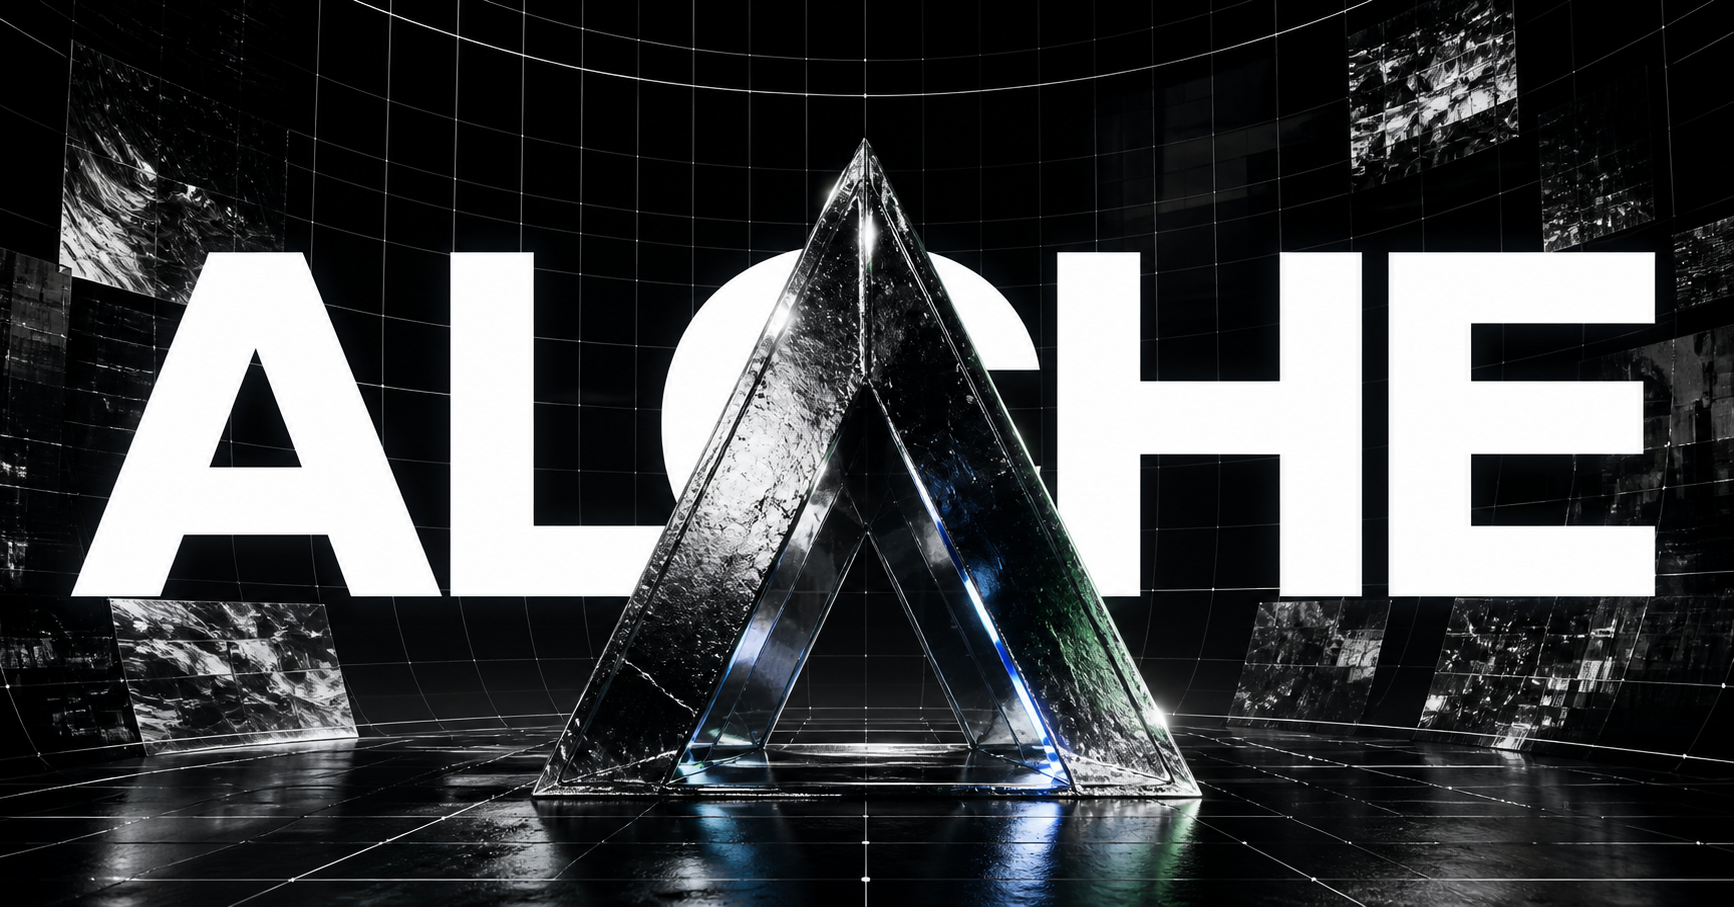
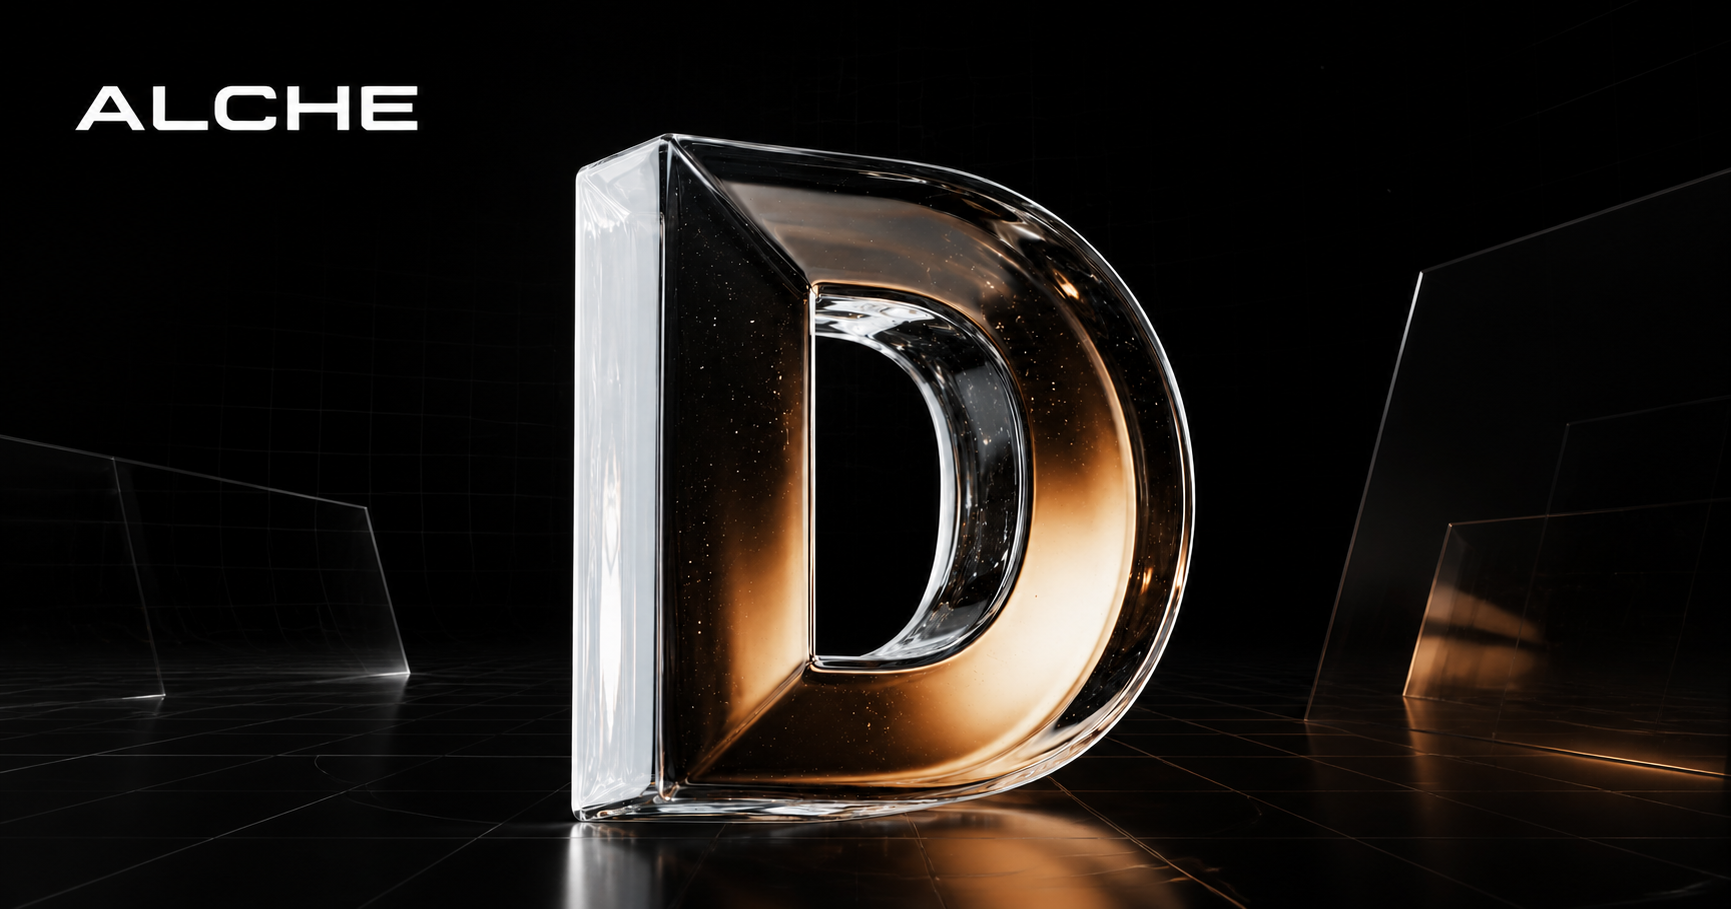
Replace hero with procedural glass D

diff --git a/app/page.tsx b/app/page.tsx
@@ -55,7 +55,6 @@ export default function Home() {
 
     async function mountScene() {
       const THREE = await import("three");
-      const { GLTFLoader } = await import("three/examples/jsm/loaders/GLTFLoader.js");
       const host = canvasHostRef.current;
       if (!host || disposed) return;
 
@@ -65,7 +64,7 @@ export default function Home() {
       renderer.outputColorSpace = THREE.SRGBColorSpace;
       renderer.toneMapping = THREE.ACESFilmicToneMapping;
       renderer.toneMappingExposure = 1.15;
-      renderer.domElement.setAttribute("aria-label", "Interactive Alche emblem");
+      renderer.domElement.setAttribute("aria-label", "Interactive glass D emblem");
       host.appendChild(renderer.domElement);
 
       const scene = new THREE.Scene();
@@ -78,93 +77,125 @@ export default function Home() {
       environment.colorSpace = THREE.SRGBColorSpace;
       scene.environment = environment;
 
-      const patternCanvas = document.createElement("canvas");
-      patternCanvas.width = 512;
-      patternCanvas.height = 512;
-      const patternContext = patternCanvas.getContext("2d");
-      let textureSeed = 913;
-      const textureRandom = () => {
-        textureSeed = (textureSeed * 16807) % 2147483647;
-        return (textureSeed - 1) / 2147483646;
-      };
-      if (patternContext) {
-        patternContext.fillStyle = "#060708";
-        patternContext.fillRect(0, 0, 512, 512);
-        for (let index = 0; index < 62; index += 1) {
-          const x = textureRandom() * 590 - 40;
-          const y = textureRandom() * 590 - 40;
-          const width = 18 + textureRandom() * 135;
-          const height = 10 + textureRandom() * 62;
-          patternContext.save();
-          patternContext.translate(x, y);
-          patternContext.rotate((-0.55 + textureRandom() * 1.1));
-          patternContext.globalAlpha = 0.12 + textureRandom() * 0.72;
-          patternContext.fillStyle = textureRandom() > 0.47 ? "#f7f7f2" : "#15181a";
-          patternContext.fillRect(-width / 2, -height / 2, width, height);
-          patternContext.restore();
-        }
-        patternContext.globalCompositeOperation = "screen";
-        for (let grain = 0; grain < 210; grain += 1) {
-          patternContext.globalAlpha = 0.035 + textureRandom() * 0.22;
-          patternContext.fillStyle = textureRandom() > 0.2 ? "#ffffff" : "#446c92";
-          patternContext.fillRect(textureRandom() * 512, textureRandom() * 512, 3 + textureRandom() * 48, 1 + textureRandom() * 9);
-        }
-        patternContext.globalCompositeOperation = "screen";
-        for (let line = 0; line < 18; line += 1) {
-          patternContext.strokeStyle = `rgba(${line % 3 === 0 ? "120,170,255" : "255,255,255"},${0.05 + textureRandom() * 0.19})`;
-          patternContext.lineWidth = 1 + textureRandom() * 4;
-          patternContext.beginPath();
-          patternContext.moveTo(-30, textureRandom() * 512);
-          patternContext.bezierCurveTo(140, textureRandom() * 512, 330, textureRandom() * 512, 550, textureRandom() * 512);
-          patternContext.stroke();
-        }
-      }
-      const patternTexture = new THREE.CanvasTexture(patternCanvas);
-      patternTexture.colorSpace = THREE.SRGBColorSpace;
-      patternTexture.wrapS = THREE.RepeatWrapping;
-      patternTexture.wrapT = THREE.MirroredRepeatWrapping;
-
       const logoRoot = new THREE.Group();
+      logoRoot.scale.setScalar(1.22);
+      logoRoot.rotation.x = -0.055;
       scene.add(logoRoot);
 
-      const loader = new GLTFLoader();
-      loader.load("/assets/scene.glb", (gltf) => {
-        if (disposed) return;
-        const logo = gltf.scene.getObjectByName("Alche_A") as THREE.Mesh | undefined;
-        const outline = gltf.scene.getObjectByName("Alche_Outline") as THREE.Mesh | undefined;
-        if (!logo?.geometry) return;
+      const dShape = new THREE.Shape();
+      dShape.moveTo(-1.48, -2.02);
+      dShape.lineTo(-1.48, 2.02);
+      dShape.lineTo(-0.18, 2.02);
+      dShape.bezierCurveTo(1.62, 2.02, 2.34, 1.08, 2.34, 0);
+      dShape.bezierCurveTo(2.34, -1.08, 1.62, -2.02, -0.18, -2.02);
+      dShape.closePath();
 
-        const glass = new THREE.MeshPhysicalMaterial({
-          color: new THREE.Color(1, 1, 1),
-          map: patternTexture,
-          bumpMap: patternTexture,
-          bumpScale: 0.035,
-          envMap: environment,
-          roughness: 0.1,
-          metalness: 0.28,
-          transmission: 0.06,
-          thickness: 0.55,
-          ior: 1.38,
-          dispersion: 0.9,
-          clearcoat: 1,
-          clearcoatRoughness: 0.08,
-          iridescence: 0.72,
-          iridescenceIOR: 1.5,
-          envMapIntensity: 2.4,
-          side: THREE.DoubleSide,
-        });
-        const mesh = new THREE.Mesh(logo.geometry, glass);
-        mesh.scale.setScalar(12.4);
-        logoRoot.add(mesh);
+      const counter = new THREE.Path();
+      counter.moveTo(-0.02, -0.98);
+      counter.lineTo(0.24, -0.98);
+      counter.bezierCurveTo(0.98, -0.98, 1.28, -0.54, 1.28, 0);
+      counter.bezierCurveTo(1.28, 0.54, 0.98, 0.98, 0.24, 0.98);
+      counter.lineTo(-0.02, 0.98);
+      counter.closePath();
+      dShape.holes.push(counter);
 
-        if (outline?.geometry) {
-          const edgeMaterial = new THREE.MeshBasicMaterial({ color: 0xffffff, transparent: true, opacity: 0.24, wireframe: true });
-          const edge = new THREE.Mesh(outline.geometry, edgeMaterial);
-          edge.scale.setScalar(12.4);
-          logoRoot.add(edge);
-        }
-        setReady(true);
+      const dGeometry = new THREE.ExtrudeGeometry(dShape, {
+        depth: 0.82,
+        steps: 1,
+        curveSegments: 36,
+        bevelEnabled: true,
+        bevelThickness: 0.17,
+        bevelSize: 0.16,
+        bevelOffset: -0.035,
+        bevelSegments: 8,
       });
+      dGeometry.center();
+      dGeometry.computeVertexNormals();
+
+      const glass = new THREE.MeshPhysicalMaterial({
+        color: new THREE.Color("#6c4935"),
+        envMap: environment,
+        roughness: 0.055,
+        metalness: 0.06,
+        transmission: 0.64,
+        thickness: 1.45,
+        ior: 1.48,
+        dispersion: 0.78,
+        attenuationColor: new THREE.Color("#6f3518"),
+        attenuationDistance: 2.5,
+        clearcoat: 1,
+        clearcoatRoughness: 0.025,
+        iridescence: 0.18,
+        iridescenceIOR: 1.33,
+        envMapIntensity: 3.3,
+        side: THREE.DoubleSide,
+      });
+      const dMesh = new THREE.Mesh(dGeometry, glass);
+      dMesh.castShadow = true;
+      logoRoot.add(dMesh);
+
+      const innerGlow = new THREE.Mesh(
+        dGeometry.clone(),
+        new THREE.MeshPhysicalMaterial({
+          color: new THREE.Color("#b96e35"),
+          roughness: 0.18,
+          metalness: 0.12,
+          transmission: 0.16,
+          transparent: true,
+          opacity: 0.2,
+          envMap: environment,
+          envMapIntensity: 1.8,
+          side: THREE.BackSide,
+        }),
+      );
+      innerGlow.scale.set(0.965, 0.965, 0.88);
+      logoRoot.add(innerGlow);
+
+      const edge = new THREE.LineSegments(
+        new THREE.EdgesGeometry(dGeometry, 21),
+        new THREE.LineBasicMaterial({ color: 0xffffff, transparent: true, opacity: 0.68 }),
+      );
+      logoRoot.add(edge);
+
+      let particleSeed = 2719;
+      const random = () => {
+        particleSeed = (particleSeed * 16807) % 2147483647;
+        return (particleSeed - 1) / 2147483646;
+      };
+      const particlePositions: number[] = [];
+      for (let attempts = 0; attempts < 4200 && particlePositions.length < 1080; attempts += 1) {
+        const y = random() * 3.74 - 1.87;
+        const x = random() * 3.58 - 1.35;
+        const outerRight = -0.08 + 2.29 * Math.sqrt(Math.max(0, 1 - (y / 2.02) ** 2));
+        const insideOuter = x <= outerRight;
+        const innerRight = 0.12 + 1.16 * Math.sqrt(Math.max(0, 1 - (y / 0.98) ** 2));
+        const insideCounter = Math.abs(y) < 0.98 && x > -0.02 && x < innerRight;
+        if (insideOuter && !insideCounter) particlePositions.push(x, y, random() * 0.56 - 0.28);
+      }
+      const particleGeometry = new THREE.BufferGeometry();
+      particleGeometry.setAttribute("position", new THREE.Float32BufferAttribute(particlePositions, 3));
+      const sparkles = new THREE.Points(
+        particleGeometry,
+        new THREE.PointsMaterial({
+          color: 0xffd4a3,
+          size: 0.018,
+          transparent: true,
+          opacity: 0.78,
+          depthWrite: false,
+          blending: THREE.AdditiveBlending,
+          sizeAttenuation: true,
+        }),
+      );
+      logoRoot.add(sparkles);
+
+      const whiteKey = new THREE.PointLight(0xd9efff, 22, 20);
+      whiteKey.position.set(-4.3, 1.2, 4.6);
+      scene.add(whiteKey);
+      const amberFill = new THREE.PointLight(0xff7a2d, 34, 16);
+      amberFill.position.set(3.2, -1.8, 3.4);
+      scene.add(amberFill);
+      scene.add(new THREE.AmbientLight(0xffffff, 0.18));
+      setReady(true);
 
       const pointer = new THREE.Vector2();
       const pointerTarget = new THREE.Vector2();
@@ -187,8 +218,7 @@ export default function Home() {
         logoRoot.rotation.x += ((-0.055 + pointer.y * 0.11) - logoRoot.rotation.x) * 0.035;
         logoRoot.rotation.y += ((Math.sin(t * 0.17) * 0.07 + pointer.x * 0.18) - logoRoot.rotation.y) * 0.04;
         logoRoot.position.y = -0.26 + Math.sin(t * 0.48) * 0.035;
-        patternTexture.offset.x = (t * 0.007) % 1;
-        patternTexture.offset.y = Math.sin(t * 0.11) * 0.025;
+        sparkles.rotation.z = Math.sin(t * 0.16) * 0.014;
         renderer.render(scene, camera);
         frame = requestAnimationFrame(render);
       };
@@ -198,9 +228,14 @@ export default function Home() {
         cancelAnimationFrame(frame);
         window.removeEventListener("pointermove", onPointerMove);
         window.removeEventListener("resize", onResize);
+        logoRoot.traverse((object) => {
+          const renderable = object as THREE.Mesh;
+          renderable.geometry?.dispose?.();
+          const materials = Array.isArray(renderable.material) ? renderable.material : renderable.material ? [renderable.material] : [];
+          materials.forEach((material) => material.dispose());
+        });
         renderer.dispose();
         environment.dispose();
-        patternTexture.dispose();
         renderer.domElement.remove();
       };
     }
@@ -265,7 +300,7 @@ export default function Home() {
         <div className="hero-grid" aria-hidden="true" />
         <div className="hero-blocks" aria-hidden="true"><i /><i /><i /><i /><i /><i /><i /></div>
         <div className="hero-word" aria-hidden="true">ALCHE</div>
-        <div ref={canvasHostRef} className={`hero-canvas ${ready ? "is-ready" : ""}`} />
+        <div ref={canvasHostRef} className={`hero-canvas ${ready ? "is-ready" : ""}`} aria-label="Interactive smoky glass letter D" />
 
         <div className="news-panel" id="news">
           <span className="eyebrow">NEWS</span>
@@ -275,7 +310,7 @@ export default function Home() {
         </div>
 
         <div className="debug-panel material-panel" aria-hidden="true">
-          <b>MainLogo Material</b><span>roughness <i style={{ width: "28%" }} /> 0.10</span><span>noiseScale <i style={{ width: "64%" }} /> 9.0</span><span>color <em /> {'{r:255, g:255, b:255}'}</span>
+          <b>D Glass Material</b><span>roughness <i style={{ width: "18%" }} /> 0.055</span><span>transmission <i style={{ width: "64%" }} /> 0.64</span><span>color <em style={{ background: "#6c4935" }} /> {'{r:108, g:73, b:53}'}</span>
         </div>
         <div className="debug-panel quaternion-panel" aria-hidden="true">
           <b>MainLogo Quaternion</b><span className="quat-values">● &nbsp; .00&nbsp; .00&nbsp; .00&nbsp; 1.0</span><div className="quat-orbit"><i>X</i><i>Y</i><i>Z</i></div><button type="button" tabIndex={-1}>Reset Quaternion</button>

diff --git a/README.md b/README.md
@@ -1,6 +1,6 @@
 # Alche Studio — high-fidelity homepage replay
 
-An evidence-backed recreation of the public `https://alche.studio/` homepage. It combines an editable React/Vinext layout with a Three.js hero built from the public Alche geometry and environment assets.
+An evidence-backed recreation of the public `https://alche.studio/` homepage. It combines an editable React/Vinext layout with a procedural Three.js glass-D hero and the original environment treatment.
 
 ## Run
 
@@ -22,7 +22,7 @@ The source investigation, replay manifest, QA report, screenshots, and documente
 ## Scope
 
 - Responsive homepage and fixed navigation
-- Interactive Three.js hero emblem
+- Interactive procedural Three.js glass-D emblem
 - News, Works, Mission, Vision, Service, Stellla, and outro states
 - Public source thumbnails, videos, GLTF geometry, and environment maps
 
